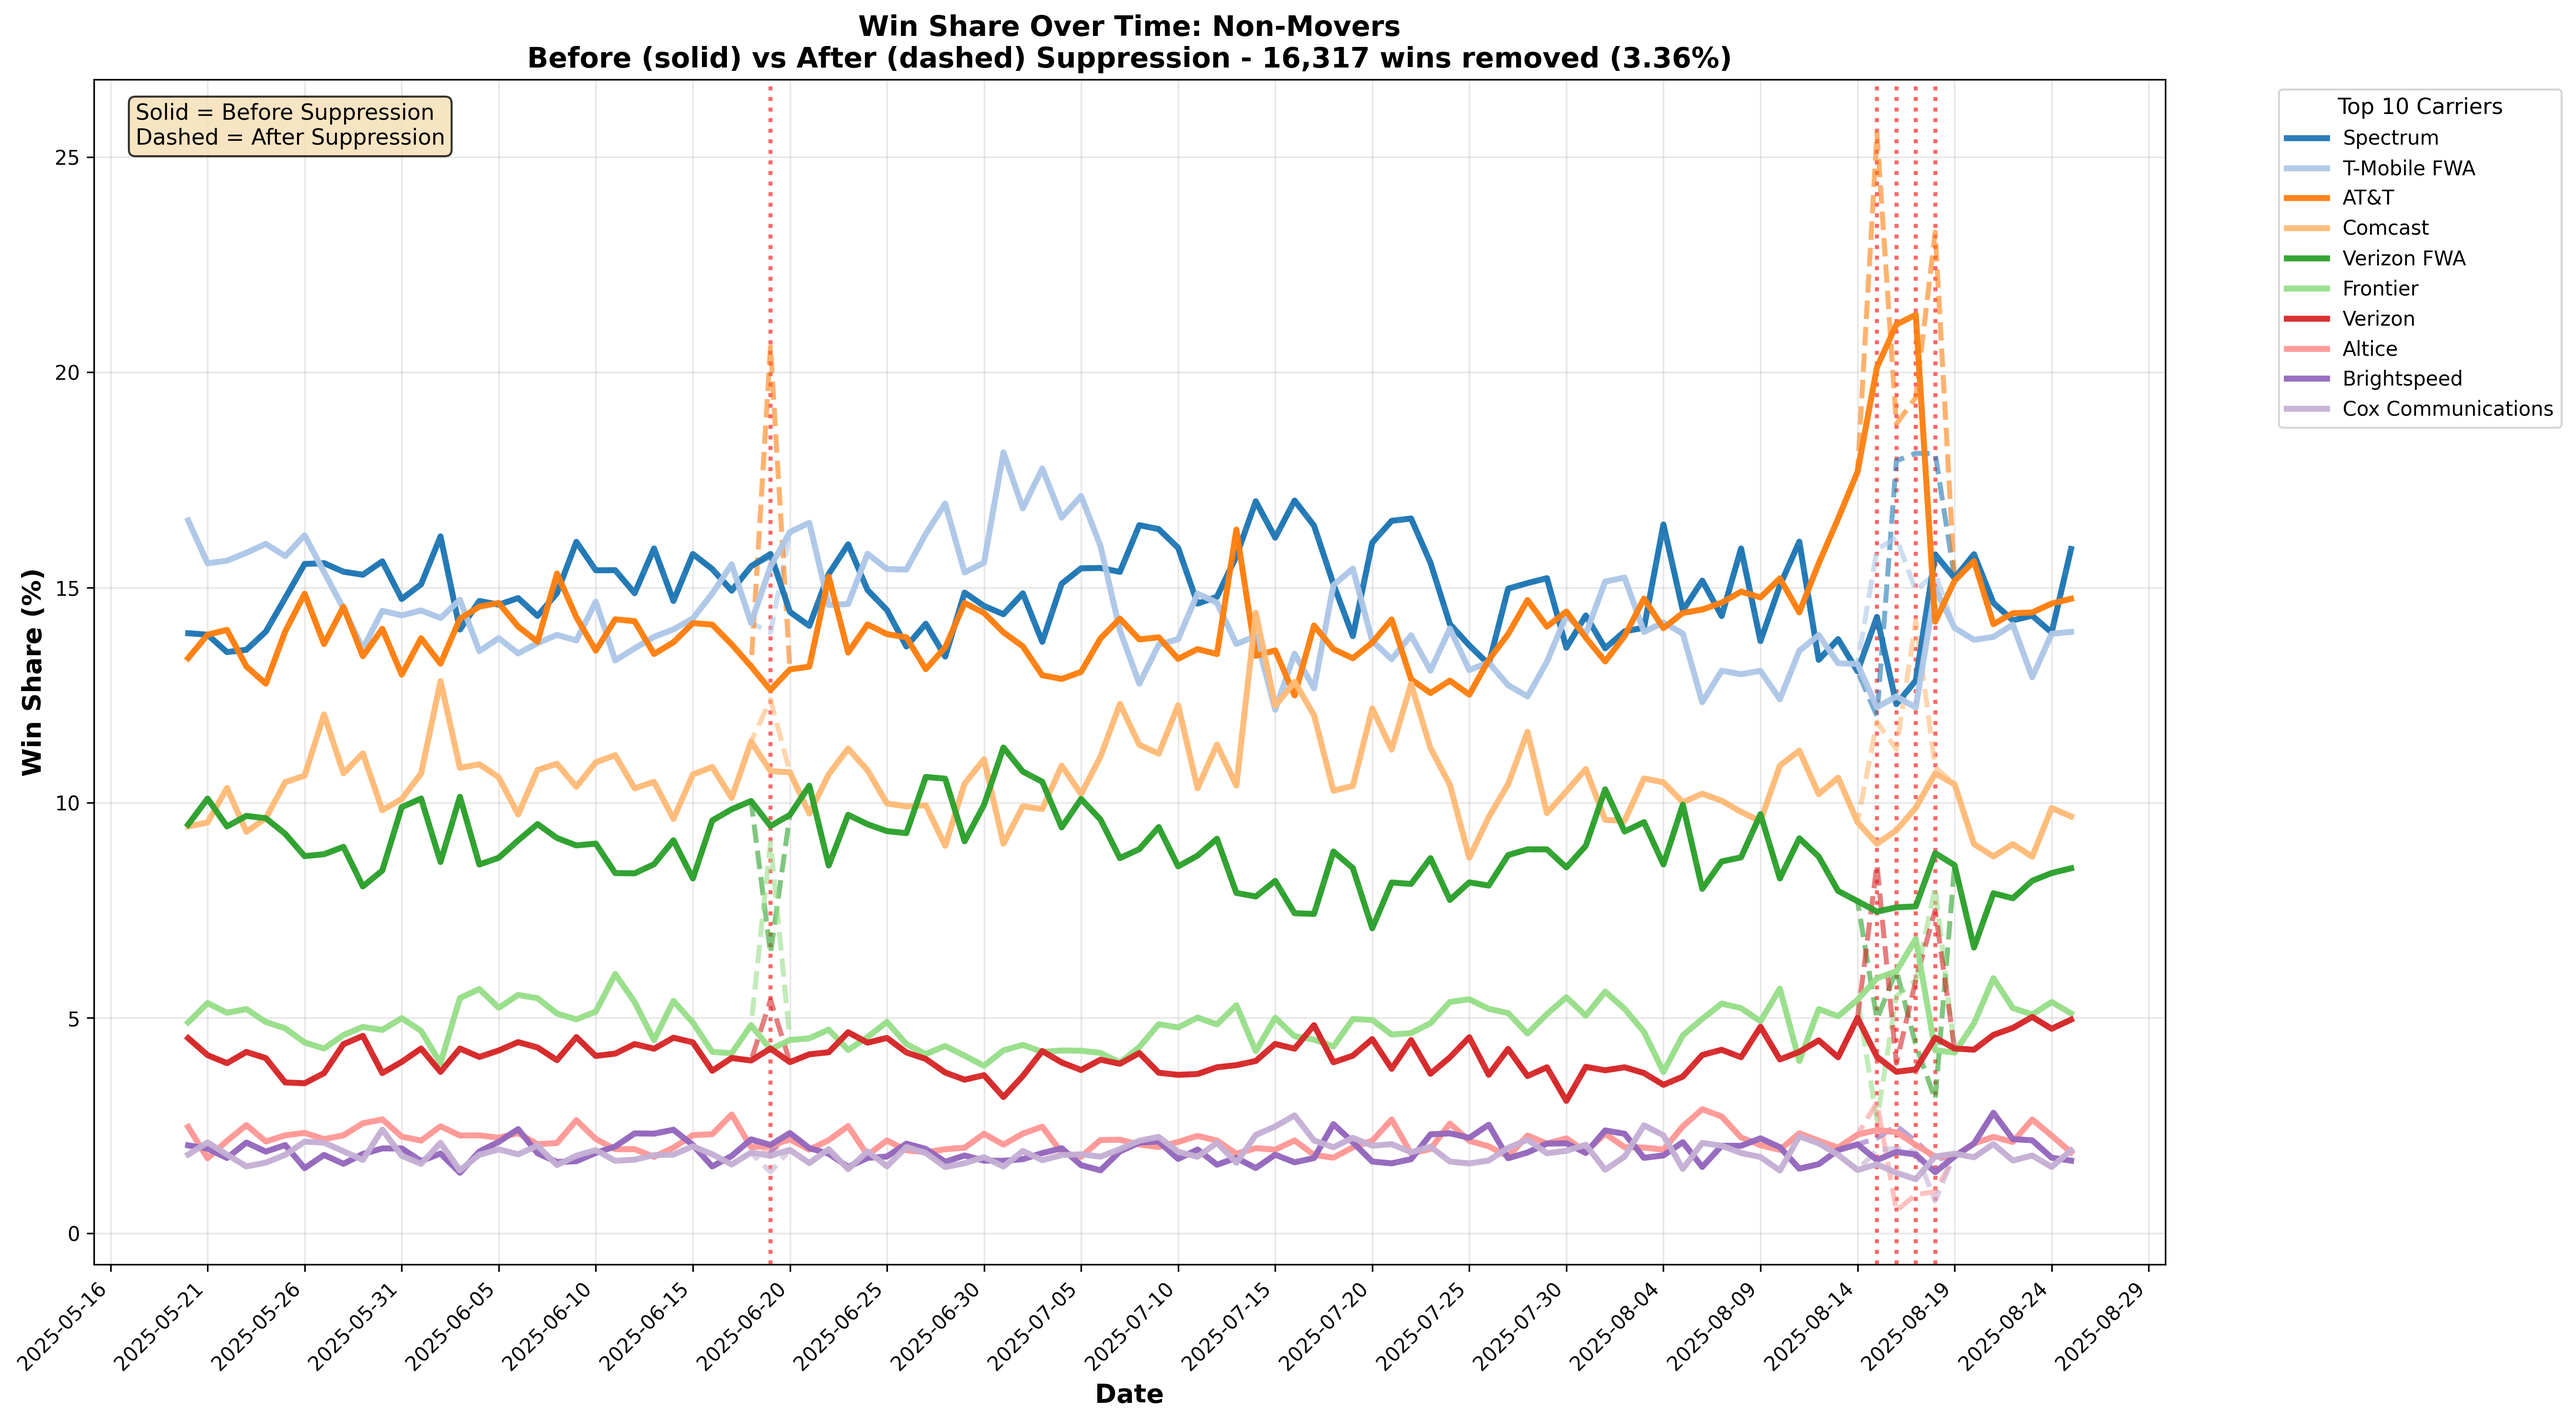
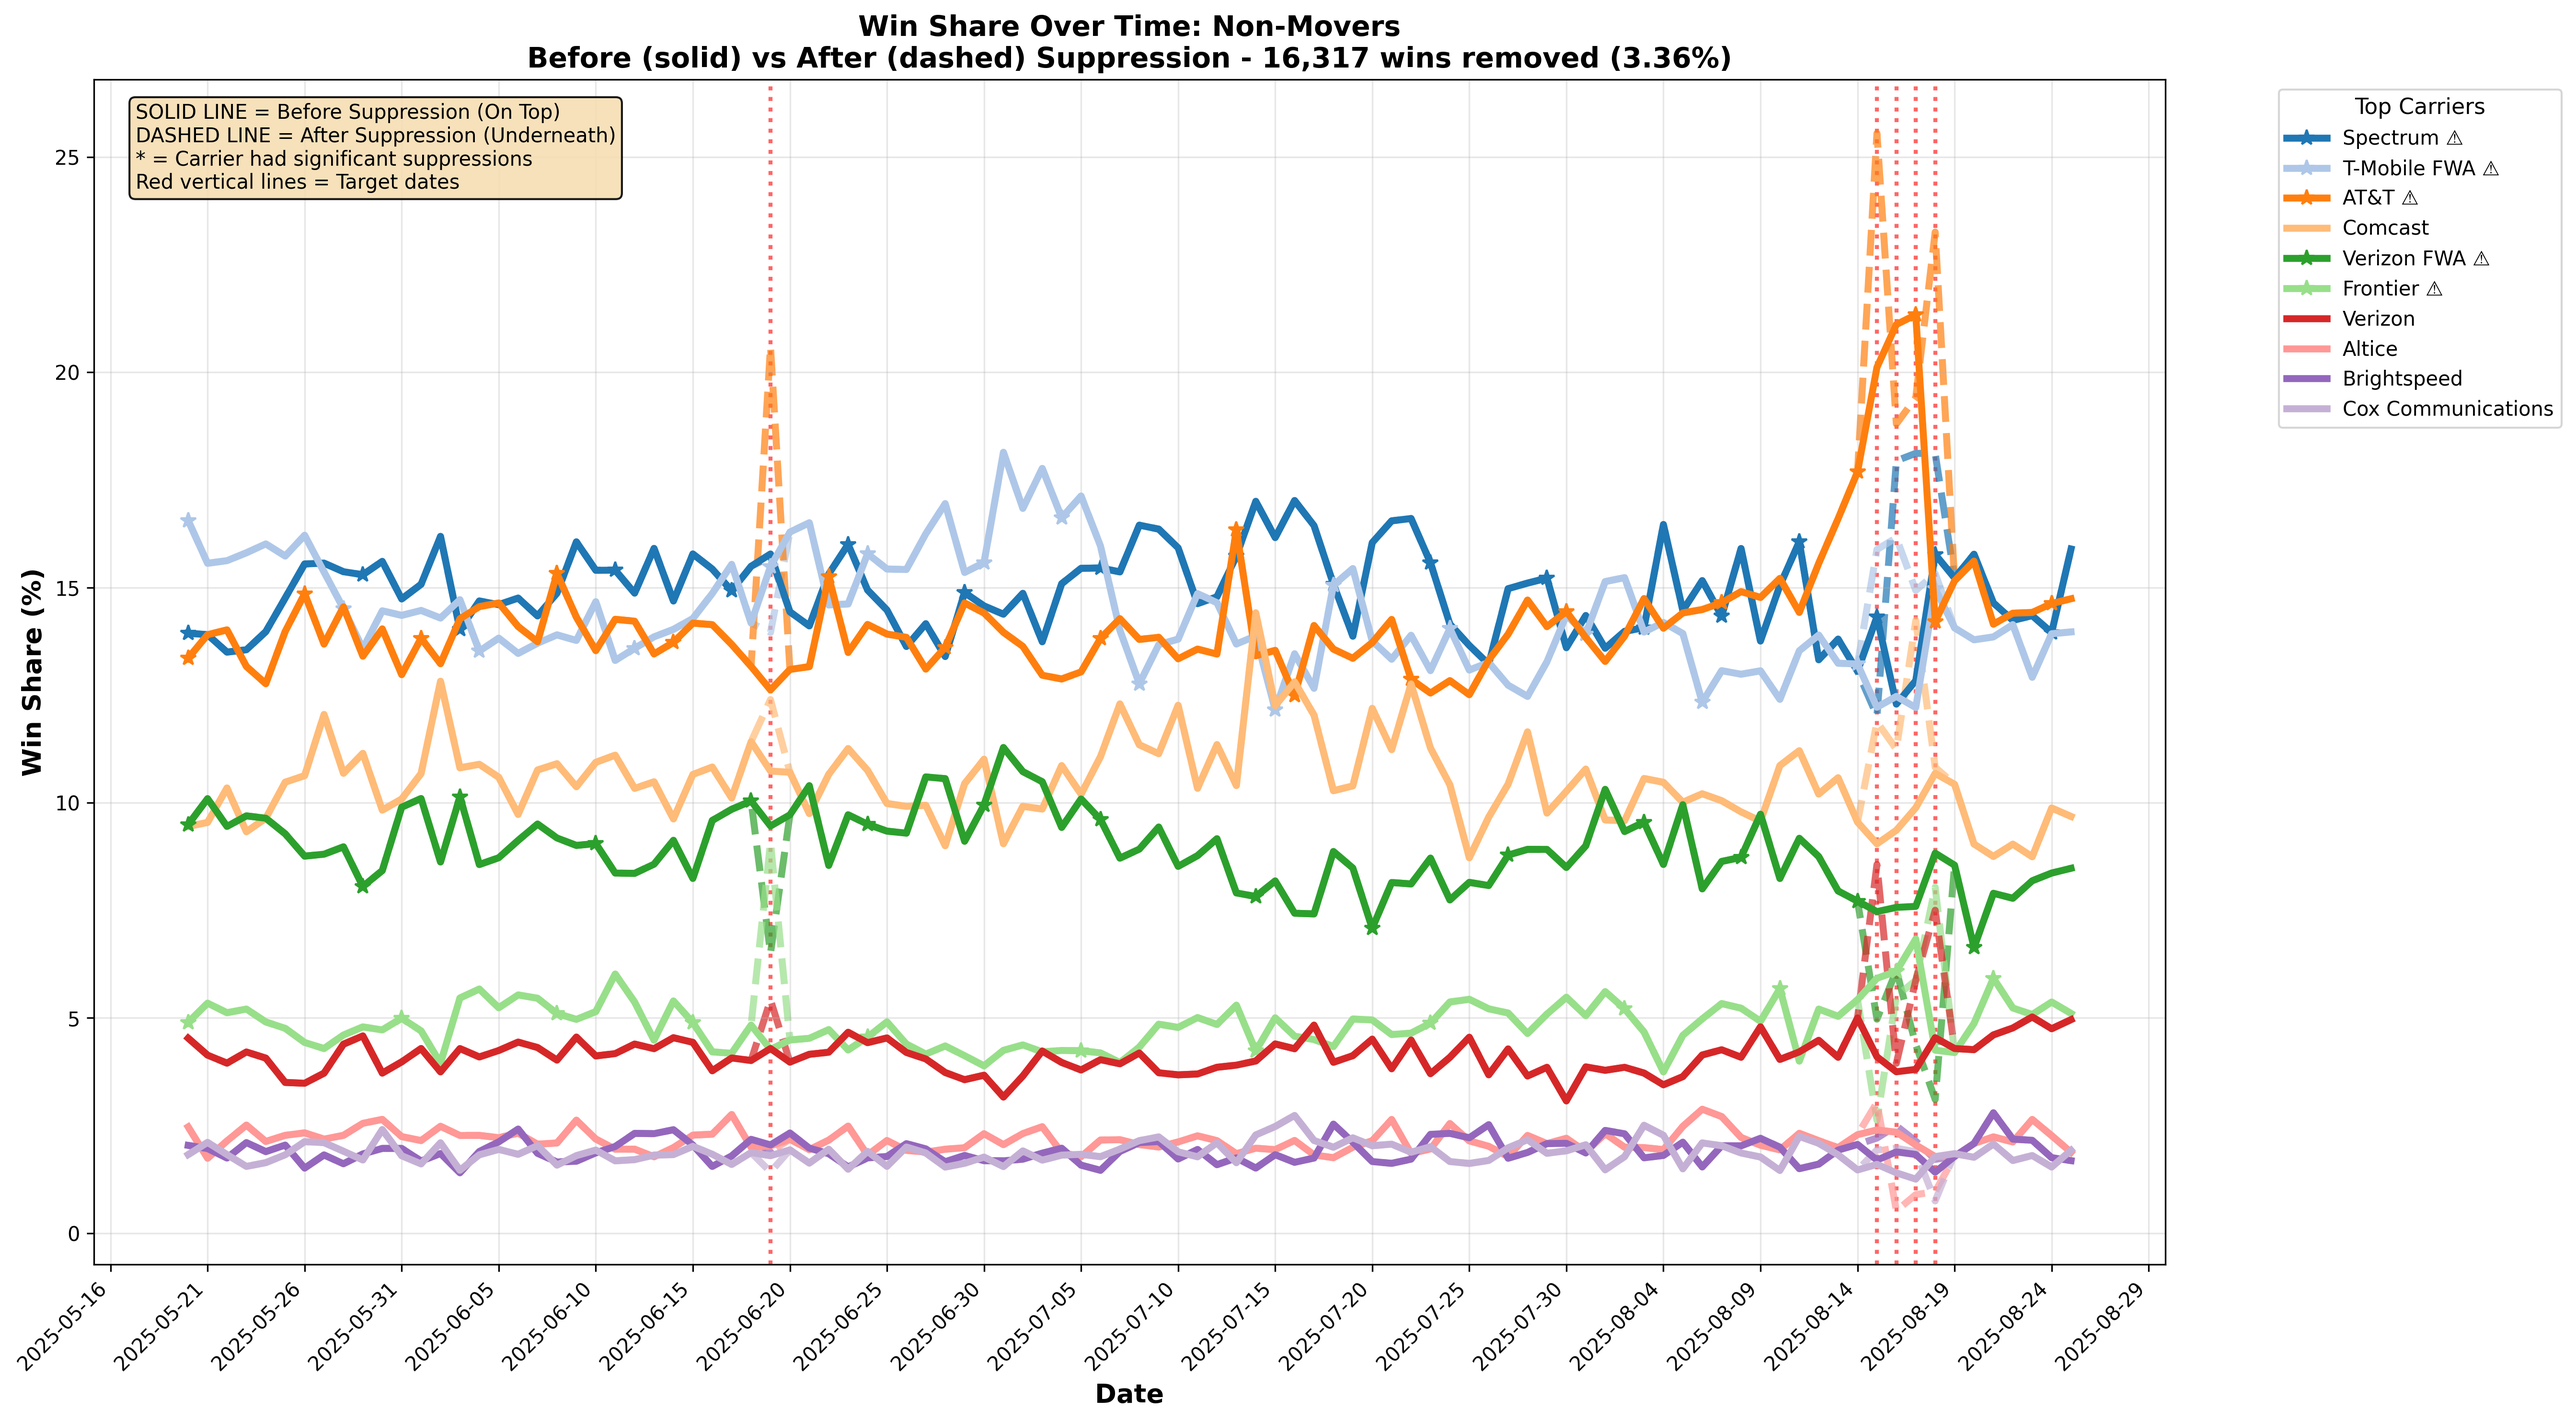
feat(visualization): improve before/after suppression graphs
- Highlight carriers with significant suppressions using star markers
- Thicker lines (3.5px) and better contrast for visibility
- Calculate and display most impacted carriers
- Fix emoji issues in legend text
- Add ?raw=true to image URLs in markdown for better GitHub rendering
- Mix top carriers by suppression impact + win share for better insights

diff --git a/scripts/generate_suppression_graphs.py b/scripts/generate_suppression_graphs.py
@@ -162,8 +162,27 @@ def plot_win_share_overlay(mover_ind):
     suppression_pct = (suppressed_amount / total_before * 100) if total_before > 0 else 0
     print(f"[INFO] Suppressed {suppressed_amount:,.0f} wins ({suppression_pct:.2f}% of total)")
     
-    # Get top 10 carriers by average win share
-    top_carriers = (
+    # Calculate win share delta for each carrier on target dates to find most impacted
+    suppressions_by_carrier = {}
+    for target_date in TARGET_DATES:
+        before_day = df_before[df_before['the_date'] == target_date]
+        after_day = df_after[df_after['the_date'] == target_date]
+        
+        for carrier in before_day['winner'].unique():
+            before_ws = before_day[before_day['winner'] == carrier]['win_share'].values
+            after_ws = after_day[after_day['winner'] == carrier]['win_share'].values
+            
+            if len(before_ws) > 0 and len(after_ws) > 0:
+                delta = abs(before_ws[0] - after_ws[0])
+                suppressions_by_carrier[carrier] = suppressions_by_carrier.get(carrier, 0) + delta
+    
+    # Get top carriers - prioritize those with suppressions, then by average win share
+    carriers_with_suppressions = sorted(suppressions_by_carrier.items(), key=lambda x: x[1], reverse=True)
+    
+    # Mix: top 5 by suppression impact + top 5 by win share
+    top_suppressed = [c[0] for c in carriers_with_suppressions[:5]]
+    
+    top_by_share = (
         df_before.groupby('winner')['win_share']
         .mean()
         .sort_values(ascending=False)
@@ -171,13 +190,25 @@ def plot_win_share_overlay(mover_ind):
         .index.tolist()
     )
     
+    # Combine, keeping order by share but highlighting suppressed carriers
+    top_carriers = []
+    for carrier in top_by_share:
+        if carrier not in top_carriers:
+            top_carriers.append(carrier)
+    for carrier in top_suppressed:
+        if carrier not in top_carriers:
+            top_carriers.append(carrier)
+    top_carriers = top_carriers[:10]
+    
+    print(f"[INFO] Top carriers with suppressions: {', '.join(top_suppressed[:3])}")
+    
     # Create figure
     fig, ax = plt.subplots(figsize=(18, 10))
     
     # Color palette - more colors for better distinction
     colors = plt.cm.tab20(range(20))
     
-    # Plot each carrier - AFTER first (dashed, underneath, lighter)
+    # Plot each carrier - DASHED (after) first, underneath
     for i, carrier in enumerate(top_carriers):
         carrier_data_after = df_after[df_after['winner'] == carrier].sort_values('the_date')
         if not carrier_data_after.empty:
@@ -186,25 +217,30 @@ def plot_win_share_overlay(mover_ind):
                 carrier_data_after['win_share'],
                 color=colors[i],
                 linestyle='--',
-                linewidth=2.5,
-                alpha=0.6,
+                linewidth=3.5,
+                alpha=0.7,
                 zorder=1,
                 label=None  # Don't show in legend
             )
     
-    # Plot each carrier - BEFORE second (solid, on top, darker)
+    # Plot each carrier - SOLID (before) second, on top
     for i, carrier in enumerate(top_carriers):
         carrier_data_before = df_before[df_before['winner'] == carrier].sort_values('the_date')
         if not carrier_data_before.empty:
+            marker = '*' if carrier in top_suppressed else None
+            label_suffix = ' ⚠' if carrier in top_suppressed else ''
             ax.plot(
                 pd.to_datetime(carrier_data_before['the_date']),
                 carrier_data_before['win_share'],
-                label=carrier,
+                label=carrier + label_suffix,
                 color=colors[i],
                 linestyle='-',
-                linewidth=3,
-                alpha=0.95,
-                zorder=2
+                linewidth=3.5,
+                alpha=1.0,
+                zorder=2,
+                marker=marker,
+                markersize=8 if marker else 0,
+                markevery=0.1
             )
     
     # Highlight target dates with vertical lines
@@ -215,11 +251,11 @@ def plot_win_share_overlay(mover_ind):
     # Add text annotation for legend
     ax.text(
         0.02, 0.98,
-        'Solid = Before Suppression\nDashed = After Suppression',
+        'SOLID LINE = Before Suppression (On Top)\nDASHED LINE = After Suppression (Underneath)\n* = Carrier had significant suppressions\nRed vertical lines = Target dates',
         transform=ax.transAxes,
-        fontsize=11,
+        fontsize=10,
         verticalalignment='top',
-        bbox=dict(boxstyle='round', facecolor='wheat', alpha=0.8)
+        bbox=dict(boxstyle='round', facecolor='wheat', alpha=0.9)
     )
     
     # Format
@@ -236,7 +272,7 @@ def plot_win_share_overlay(mover_ind):
         bbox_to_anchor=(1.05, 1),
         loc='upper left',
         fontsize=10,
-        title='Top 10 Carriers',
+        title='Top Carriers',
         title_fontsize=11
     )
     

diff --git a/docs/REMOVE_OUTLIERS.md b/docs/REMOVE_OUTLIERS.md
@@ -115,7 +115,7 @@ This analysis demonstrates a **top-down, pair-level suppression approach** that 
 
 **Win Share Time Series - Movers**
 
-![Win Share Overlay - Movers](../analysis_results/suppression/graphs/win_share_overlay_mover_True.png)
+![Win Share Overlay - Movers](../analysis_results/suppression/graphs/win_share_overlay_mover_True.png?raw=true)
 
 **Key Observations:**
 - **Solid lines** show original win share (before suppression)
@@ -127,7 +127,7 @@ This analysis demonstrates a **top-down, pair-level suppression approach** that 
 
 **Outlier Detection Metrics - Movers**
 
-![Outlier Metrics - Movers](../analysis_results/suppression/graphs/outlier_metrics_mover_True.png)
+![Outlier Metrics - Movers](../analysis_results/suppression/graphs/outlier_metrics_mover_True.png?raw=true)
 
 **Analysis:**
 - **Top Panel:** Z-scores show extreme outliers on 2025-08-16 (z > 18)
@@ -136,7 +136,7 @@ This analysis demonstrates a **top-down, pair-level suppression approach** that 
 
 **Top National Outliers - Movers**
 
-![Carrier Z-Scores - Movers](../analysis_results/suppression/graphs/carrier_zscore_mover_True.png)
+![Carrier Z-Scores - Movers](../analysis_results/suppression/graphs/carrier_zscore_mover_True.png?raw=true)
 
 **Key Findings:**
 - Extreme outliers (z > 5) in red: Pavlov Media, Apogee Telecom, WhiteSky Communications
@@ -149,7 +149,7 @@ This analysis demonstrates a **top-down, pair-level suppression approach** that 
 
 **Win Share Time Series - Non-Movers**
 
-![Win Share Overlay - Non-Movers](../analysis_results/suppression/graphs/win_share_overlay_mover_False.png)
+![Win Share Overlay - Non-Movers](../analysis_results/suppression/graphs/win_share_overlay_mover_False.png?raw=true)
 
 **Key Observations:**
 - **Solid lines** show original market shares
@@ -161,7 +161,7 @@ This analysis demonstrates a **top-down, pair-level suppression approach** that 
 
 **Outlier Detection Metrics - Non-Movers**
 
-![Outlier Metrics - Non-Movers](../analysis_results/suppression/graphs/outlier_metrics_mover_False.png)
+![Outlier Metrics - Non-Movers](../analysis_results/suppression/graphs/outlier_metrics_mover_False.png?raw=true)
 
 **Analysis:**
 - **Top Panel:** Lower z-scores than movers, but still significant (z > 15 on 2025-08-16 for AT&T)
@@ -170,7 +170,7 @@ This analysis demonstrates a **top-down, pair-level suppression approach** that 
 
 **Top National Outliers - Non-Movers**
 
-![Carrier Z-Scores - Non-Movers](../analysis_results/suppression/graphs/carrier_zscore_mover_False.png)
+![Carrier Z-Scores - Non-Movers](../analysis_results/suppression/graphs/carrier_zscore_mover_False.png?raw=true)
 
 **Key Findings:**
 - AT&T dominates extreme outliers on 2025-08-16 (z > 15)
